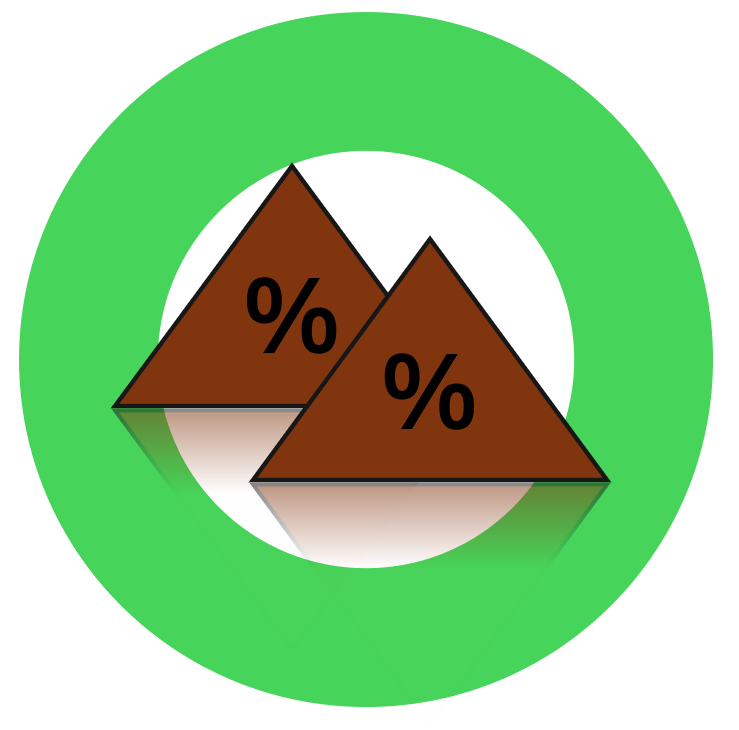
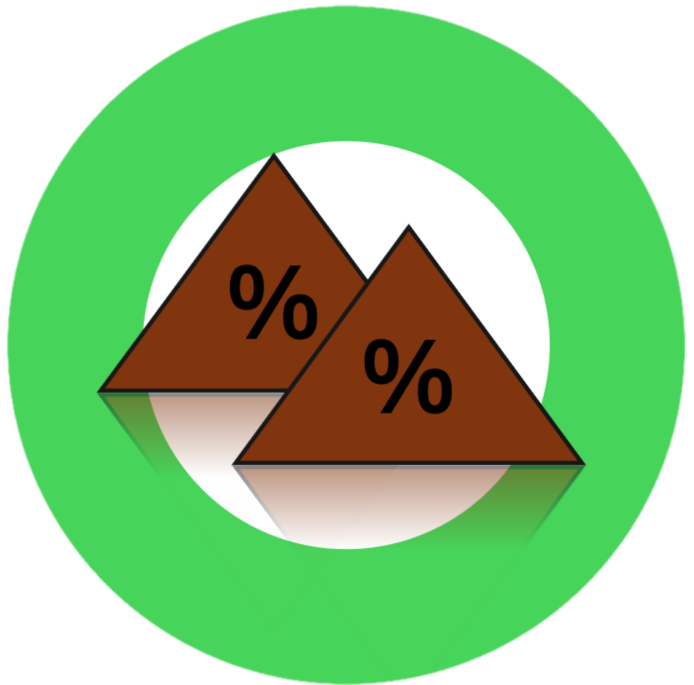
Debugged blend sequence table

diff --git a/blendmaster_OOP/GUI/InitialiseGUI.py b/blendmaster_OOP/GUI/InitialiseGUI.py
@@ -5,7 +5,7 @@ from PyQt5.QtWidgets import (
 )
 from PyQt5.QtWebEngineWidgets import QWebEngineView, QWebEngineDownloadItem
 from PyQt5.QtGui import QColor, QBrush, QFont, QIcon
-from PyQt5.QtCore import Qt, QUrl, QDateTime
+from PyQt5.QtCore import Qt, QUrl, QDateTime, QDir
 from setup.OpeningStockpileInventories import OpeningStockpileInventories
 from execute.Run import Run
 from datetime import datetime, timedelta
@@ -18,7 +18,7 @@ class UserInputs(QMainWindow):
     def __init__(self):
         super().__init__()
         self.setWindowTitle("BlendMaster PoC v0.1.0 - 2025 Fortescue - MOPP")
-        self.setWindowIcon(QIcon("C:/BlendMaster/blendmaster_OOP/resources/icon.ico")) 
+        self.setWindowIcon(QIcon("C:/BlendMaster/blendmaster_OOP/resources/icon_2.ico")) 
         self.setGeometry(100, 100, 800, 600)
 
         self.initialise_all_variables()
@@ -77,12 +77,14 @@ class UserInputs(QMainWindow):
         self.decision_input.setFixedWidth(300)
         self.decision_input.returnPressed.connect(self.handle_decision_input)
         input_layout.addWidget(self.decision_input, alignment=Qt.AlignLeft)
+        self.decision_input.setEnabled(False)
 
         self.enter_button = QPushButton("Submit")
         self.enter_button.setFixedWidth(200)
         self.enter_button.clicked.connect(self.handle_decision_input)
         input_layout.addWidget(self.enter_button, alignment=Qt.AlignLeft)
         input_layout.setAlignment(Qt.AlignLeft)
+        self.enter_button.setEnabled(False)
 
         self.decision_point_tab_layout.addLayout(input_layout)  # Add input field and button at the bottom
 
@@ -175,6 +177,15 @@ class UserInputs(QMainWindow):
         self.site_config_tab = QWidget()
         self.tabs.addTab(self.site_config_tab, "Site Configuration")
         layout = QFormLayout(self.site_config_tab)
+        self.site_config_tab.setObjectName("siteConfigTab")  # Set an object name for the stylesheet
+        self.site_config_tab.setStyleSheet("""
+            #siteConfigTab {
+                background-image: url('C:/BlendMaster/blendmaster_OOP/resources/background.png');
+                background-repeat: no-repeat;
+                background-position: center;
+                background-attachment: fixed;
+            }
+        """)
 
         # Dropdown lists for Hub and Mine
         self.hub_input = QComboBox()
@@ -345,7 +356,7 @@ class UserInputs(QMainWindow):
         self.progress_dialog.resize(300, self.progress_dialog.height())  # Set a specific width
         self.progress_dialog.setFixedWidth(300)  # Fix the width without changing height
         self.progress_dialog.setWindowIcon(QIcon(r"C:\BlendMaster\blendmaster_OOP\resources\icon.png"))
-        self.progress_dialog.setWindowFlag(Qt.WindowStaysOnTopHint)  # Make it always on top
+        #self.progress_dialog.setWindowFlag(Qt.WindowStaysOnTopHint)  # Make it always on top
         self.progress_dialog.show()
 
         if not self.is_project_loaded:
@@ -1062,11 +1073,15 @@ class UserInputs(QMainWindow):
         if self.blend_mode_choice == 2:
             self.tabs.setTabEnabled(3, True)
             self.tabs.setCurrentIndex(3)
+            self.decision_input.setEnabled(True) # Enable the input
+            self.enter_button.setEnabled(True) # Enable the button
             self.tabs.setTabEnabled(4, True)  # Enable Results (optimised) tab
             self.tabs.setTabEnabled(5, True)  # Enable profiles tab
 
         else:
             self.tabs.setTabEnabled(3, True)
+            self.decision_input.setEnabled(False) # Disable the input
+            self.enter_button.setEnabled(False) # Disable the button
             self.tabs.setTabEnabled(4, True)  # Enable Results (optimised) tab
             self.tabs.setTabEnabled(5, True)  # Enable profiles tab
             self.tabs.setCurrentIndex(4)  # Switch to Results (optimised) tab
@@ -1643,7 +1658,9 @@ class UserInputs(QMainWindow):
         {"Blend ID": "4", "Origin": "Default", "Start Datetime": self.default_start_datetime_str, "Duration (hrs)": default_duration, "End Datetime": self.default_end_datetime_str, "Early Start Flag": ""},
         {"Blend ID": "5", "Origin": "Default", "Start Datetime": self.default_start_datetime_str, "Duration (hrs)": default_duration, "End Datetime": self.default_end_datetime_str, "Early Start Flag": ""}
         ]
-        self.stored_blend_sequence_table_for_gantt = []
+        
+        if not self.is_project_loaded:
+            self.stored_blend_sequence_table_for_gantt = []
 
         self.manual_gantt_legend_and_tooltip = self.saved_blends_for_schedule
         
@@ -1864,8 +1881,11 @@ class UserInputs(QMainWindow):
             # Add the button to the layout
             self.blend_sequence_table_external_layout.addWidget(store_button)
             
+        if self.is_project_loaded and self.setup_blend_sequence_table_first_call:
+            self.populate_blend_sequence_table_if_project_is_loaded()
+       
         self.setup_blend_sequence_table_first_call = False
-        
+
         self.update_remaining_hrs()
 
         self.blend_sequence_table.viewport().update()
@@ -2032,10 +2052,11 @@ class UserInputs(QMainWindow):
             QMessageBox.warning(None, "Invalid Duration", f"Error updating row {row}: {e}")
 
     def submit_blend_sequence_table_to_gantt(self):
+                
         headers = ["Blend ID", "Origin", "Start Datetime", "Duration (hrs)", "End Datetime", "Early Start Flag", "Remaining Hrs"]
 
         self.stored_blend_sequence_table_for_gantt = []
-        
+                
         # Check for negative values in "Remaining Hrs"
         for row in range(self.blend_sequence_table.rowCount()):
             item = self.blend_sequence_table.item(row, headers.index("Remaining Hrs"))
@@ -2061,7 +2082,7 @@ class UserInputs(QMainWindow):
         for row in range(self.blend_sequence_table.rowCount()):
             row_data = {}
             for col, header in enumerate(headers):
-                item = self.blend_sequence_table.item(row, col) or self.blend_sequence_table.cellWidget(row, col)
+                item = self.blend_sequence_table.cellWidget(row, col) or self.blend_sequence_table.item(row, col)
                 if isinstance(item, QTableWidgetItem):
                     row_data[header] = item.text() if item else None
                 elif isinstance(item, QComboBox):
@@ -2153,6 +2174,37 @@ class UserInputs(QMainWindow):
             early_start_item.setBackground(flag_color)
             early_start_item.setForeground(QColor("white"))
             early_start_item.setTextAlignment(Qt.AlignCenter)
+
+    def populate_blend_sequence_table_if_project_is_loaded(self):
+
+        # Ensure the table has enough rows to match the stored data
+        while self.blend_sequence_table.rowCount() < len(self.stored_blend_sequence_table_for_gantt):
+            self.add_blank_row()  # Use the method to insert rows with the correct format
+
+        # Iterate through the stored data and update the table
+        for row_index, row_data in enumerate(self.stored_blend_sequence_table_for_gantt):
+            # Update "Blend ID" (QComboBox)
+            blend_id = row_data.get("Blend ID")
+            combo_box = self.blend_sequence_table.cellWidget(row_index, 0)
+            if isinstance(combo_box, QComboBox) and blend_id is not None:
+                combo_box.setCurrentText(blend_id)
+
+            # Update "Start Datetime" (QDateTimeEdit)
+            start_datetime = row_data.get("Start Datetime")
+            datetime_widget = self.blend_sequence_table.cellWidget(row_index, 2)
+            if isinstance(datetime_widget, QDateTimeEdit) and start_datetime is not None:
+                datetime_widget.setDateTime(QDateTime.fromString(start_datetime, "yyyy-MM-dd HH:mm"))
+
+            # Update "Duration (hrs)" (QTableWidgetItem)
+            duration = row_data.get("Duration (hrs)")
+            duration_item = self.blend_sequence_table.item(row_index, 3)
+            if isinstance(duration_item, QTableWidgetItem):
+                duration_item.setText(duration if duration is not None else "")
+            else:  # Create a new QTableWidgetItem if not already set
+                self.blend_sequence_table.setItem(row_index, 3, QTableWidgetItem(duration if duration is not None else ""))
+            
+            self.on_cell_changed(row_index,3)
+            self.update_blend_id(row_index)
 
     def update_remaining_hrs(self):
         """
@@ -2382,6 +2434,8 @@ class UserInputs(QMainWindow):
         self.handle_site_config_submit()
         self.store_stockpile_table()
         self.store_calendar_inputs()
+        self.on_blend_data_change()
+        self.store_blend_results()
 
         QMessageBox.information(self, "BlendMaster", "Project loaded successfully!")
         

diff --git a/blendmaster_OOP/GUI/ManualBlendDash.py b/blendmaster_OOP/GUI/ManualBlendDash.py
@@ -75,6 +75,7 @@ class ManualBlendDash:
         # Combine hover data into a categorical column for the legend
         df['Details'] = df.apply(
             lambda row: (
+                "<br>Blend ID: " + str(row['Blend ID']) +
                 "<br>Grade Fe: " + str(row['Grade Fe']) + "%" +
                 "<br>Grade Si: " + str(row['Grade Si']) + "%" +
                 "<br>Grade Al: " + str(row['Grade Al']) + "%" +
